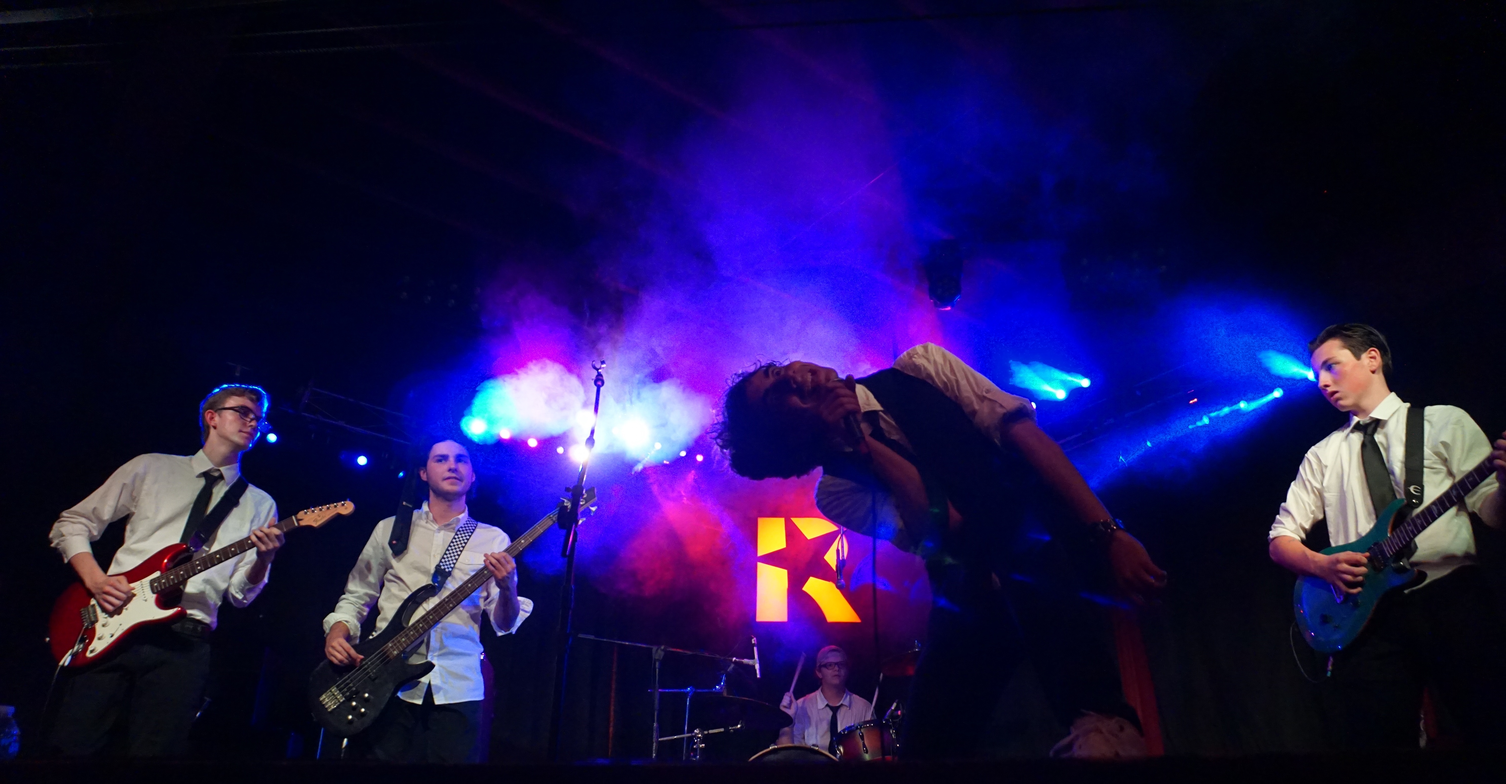
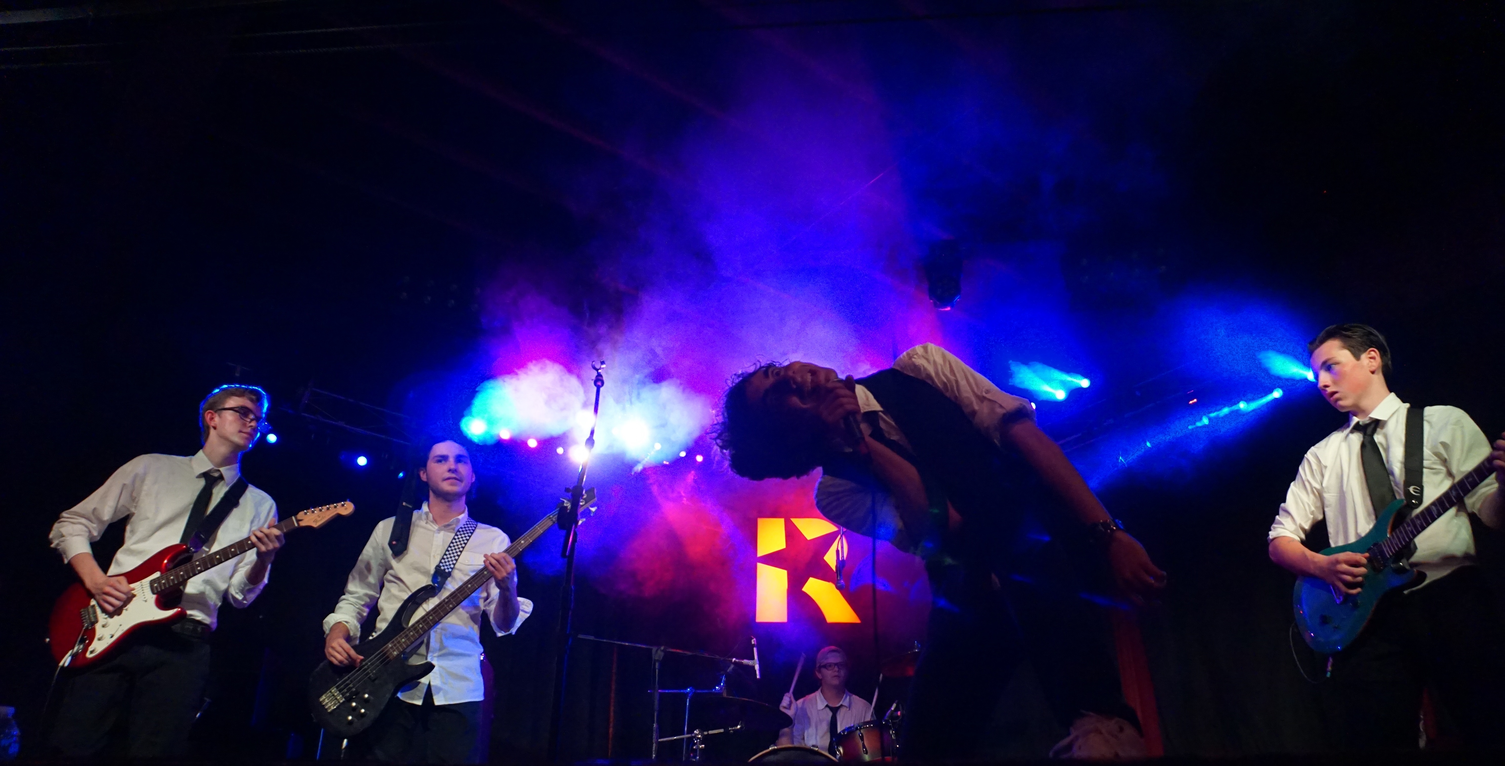
create Hero

diff --git a/components/Home/Hero.jsx b/components/Home/Hero.jsx
@@ -1,55 +1,90 @@
 import styled from 'styled-components';
 import Image from 'next/image';
 import ScrollForMore from '../buttons/ScrollForMore';
+import Head from 'next/head';
 
 export default function Hero() {
   return (
-    <Container>
-      <div className="overlay">
-        <h1>Landslide</h1>
-        {/* <p>Subtitle</p> */}
-      </div>
-
-      <Image
-        priority
-        src="/assets/hero.jpg"
-        alt="Picture of the band"
-        layout="responsive"
-        height={1080}
-        className="hero__image"
-        width={1920}
-        blurDataURL="/assets/hero.jpg"
-        placeholder="blur"
-      />
-
-      <div className="hero__view-more">
-        <ScrollForMore />
-      </div>
-    </Container>
+    <>
+      <Head>
+        <meta name="viewport" content="width=device-width, initial-scale=1.0" />
+      </Head>
+      <Container>
+        <div className="overlay">
+          <h1>Landslide</h1>
+        </div>
+        <Image
+          sizes="100%"
+          quality={100}
+          className="img"
+          src="/assets/hero.jpg"
+          layout="fill"
+          blurDataURL="/assets/hero.jpg"
+          placeholder="blur"
+          objectFit="contain"
+          objectPosition="center"
+        />
+        <div className="hero__scroll-for-more">
+          <ScrollForMore />
+        </div>
+        <div className="hero--fadeBottom" />
+      </Container>
+    </>
   );
 }
 
 const Container = styled.div`
-  position: relative;
   height: 100%;
+  max-height: 80vh;
+
+  position: relative;
+  margin: 0 auto;
+  width: 100%;
 
   .overlay {
     text-align: center;
     position: absolute;
     z-index: 0;
     width: 100%;
+
     h1 {
       font-size: 6vw;
       transform: translateY(9vw);
       color: #fff;
       letter-spacing: 0.45rem;
       font-weight: 700;
+      font-family: 'Montserrat', sans-serif;
     }
   }
 
-  .hero__view-more {
+  & > span {
+    position: unset !important;
+    height: 100%;
+    padding-bottom: 50%;
+  }
+
+  .img {
+    transition: all 250ms ease-in-out;
+    z-index: -1;
+    background-color: linear-gradient(rgba(0, 0, 0, 0.5), rgba(0, 0, 0, 0.5));
+
+    position: relative !important;
+    height: unset !important;
+
+    width: 100% !important;
+    max-height: 80vh !important;
+    object-fit: contain;
+
+    @media screen and (min-width: 768px) {
+      object-fit: cover !important;
+    }
+
+    opacity: 0.8;
+  }
+
+  .hero__scroll-for-more {
     position: absolute;
-    bottom: 50px;
+    bottom: 20px;
     left: 50px;
 
     display: none;
@@ -59,13 +94,16 @@ const Container = styled.div`
     }
   }
 
-  .hero__image {
-    position: relative;
-    display: block;
-    overflow: visible;
-    z-index: -1;
-    margin-left: auto;
-    margin-right: auto;
-    width: 75%;
+  .hero--fadeBottom {
+    height: 2.4rem;
+    background-image: linear-gradient(
+      180deg,
+      transparent,
+      rgba(37, 37, 37, 0.61),
+      #111
+    );
+    position: absolute;
+    bottom: 0;
+    width: 100%;
   }
 `;

diff --git a/components/shared/Layout/Nav.jsx b/components/shared/Layout/Nav.jsx
@@ -1,0 +1,59 @@
+import styled from 'styled-components';
+import Link from 'next/link';
+
+const LINKS = [
+  {
+    text: 'home',
+    route: '/',
+  },
+  {
+    text: 'news',
+    route: '/news',
+  },
+];
+
+export default function Nav() {
+  return (
+    <StyledNav>
+      {LINKS.map((link) => (
+        <LinkContainer key={link.text}>
+          <Link href={link.route}>{link.text}</Link>
+        </LinkContainer>
+      ))}
+    </StyledNav>
+  );
+}
+
+const StyledNav = styled.nav`
+  display: flex;
+  align-items: center;
+  justify-content: center;
+  padding-left: 38px;
+  padding-right: 38px;
+  padding-top: 20px;
+  padding-bottom: 20px;
+`;
+
+const LinkContainer = styled.div`
+  a {
+    color: #fff;
+    font-family: 'Open Sans';
+    font-weight: 600;
+    font-style: normal;
+    font-size: 1.3rem;
+    letter-spacing: 0.06em;
+    line-height: 1.3em;
+    text-transform: uppercase;
+    color: ${({ theme }) => theme.colors.primary};
+    margin: 0 0.618em;
+    padding: 0.618em 0;
+    display: inline-block;
+    vertical-align: middle;
+    text-decoration: none;
+    transition: color 250ms ease-in-out;
+  }
+
+  &:hover > a {
+    color: rgba(255, 255, 255, 0.4);
+  }
+`;

diff --git a/pages/index.js b/pages/index.js
@@ -1,6 +1,7 @@
 import Head from 'next/head';
 import styled from 'styled-components';
 import Hero from '../components/Home/Hero';
+import Header from '../components/shared/Layout/Header';
 
 export default function Home() {
   return (
@@ -8,8 +9,18 @@ export default function Home() {
       <Head>
         <title>Create Next App</title>
         <link rel="icon" href="/favicon.ico" />
+        <link rel="preconnect" href="https://fonts.googleapis.com" />
+        <link rel="preconnect" href="https://fonts.gstatic.com" crossOrigin />
+        <link
+          href="https://fonts.googleapis.com/css2?family=Open+Sans&display=swap"
+          rel="stylesheet"
+        />
+        <link
+          href="https://fonts.googleapis.com/css2?family=Montserrat:ital,wght@1,300&family=Open+Sans&display=swap"
+          rel="stylesheet"
+        />
       </Head>
-
+      <Header />
       <Container>
         <Hero />
       </Container>

diff --git a/components/shared/BgImage.jsx b/components/shared/BgImage.jsx
@@ -1,0 +1,34 @@
+import { useState, useEffect } from 'react';
+import Image from 'next/image';
+
+function getWindowDimensions() {
+  const { innerWidth, innerHeight } = window;
+  return {
+    innerWidth,
+    innerHeight,
+  };
+}
+
+export default function BgImage() {
+  const [width, setWidth] = useState(Number);
+  const [height, setHeight] = useState(Number);
+
+  useEffect(() => {
+    const handleResize = () => {
+      const { width, height } = getWindowDimensions();
+      setWidth(width);
+      setHeight(height);
+      console.log('resize');
+    };
+    window.addEventListener('resize', handleResize);
+    return () => {
+      window.removeEventListener('resize', handleResize);
+    };
+  }, []);
+
+  if (width && height) {
+    return <Image src="/assets/hero.jpg" width={width} height={height} />;
+  }
+
+  return null;
+}

diff --git a/pages/_app.js b/pages/_app.js
@@ -1,7 +1,31 @@
-import '../styles/globals.css';
+import { createGlobalStyle, ThemeProvider } from 'styled-components';
+
+const GlobalStyle = createGlobalStyle`
+  body {
+    margin: 0;
+    padding: 0;
+    box-sizing: border-box;
+    background: #000;
+  }
+`;
+
+const theme = {
+  colors: {
+    primary: '#fff',
+    secondary: '#000',
+  },
+};
 
 function App({ Component, pageProps }) {
-  return <Component {...pageProps} />;
+  return (
+    <>
+      <GlobalStyle />
+
+      <ThemeProvider theme={theme}>
+        <Component {...pageProps} />
+      </ThemeProvider>
+    </>
+  );
 }
 
 export default App;

diff --git a/components/shared/Layout/Header.jsx b/components/shared/Layout/Header.jsx
@@ -1,0 +1,23 @@
+import styled from 'styled-components';
+import Nav from './Nav';
+
+export default function Header() {
+  return (
+    <StyledHeader className="header__container">
+      <Nav />
+    </StyledHeader>
+  );
+}
+
+const StyledHeader = styled.header`
+  @media screen and (min-width: 640px) {
+    display: block;
+  }
+
+  background: ${({ theme }) => theme.colors.secondary};
+
+  display: none;
+
+  -webkit-font-smoothing: antialiased;
+  border-bottom: 1px solid ${({ theme }) => theme.colors.primary};
+`;

diff --git a/components/buttons/ScrollForMore.jsx b/components/buttons/ScrollForMore.jsx
@@ -40,7 +40,7 @@ const ItemContainer = styled.div`
     background-color: white;
     border-radius: 1px;
     height: 6px;
-    left: 10px;
+    left: 12px;
     position: absolute;
     top: 10px;
     width: 2px;

diff --git a/components/shared/Layout/Footer.jsx b/components/shared/Layout/Footer.jsx
@@ -1,0 +1,3 @@
+export default function Footer() {
+  return <footer></footer>;
+}
